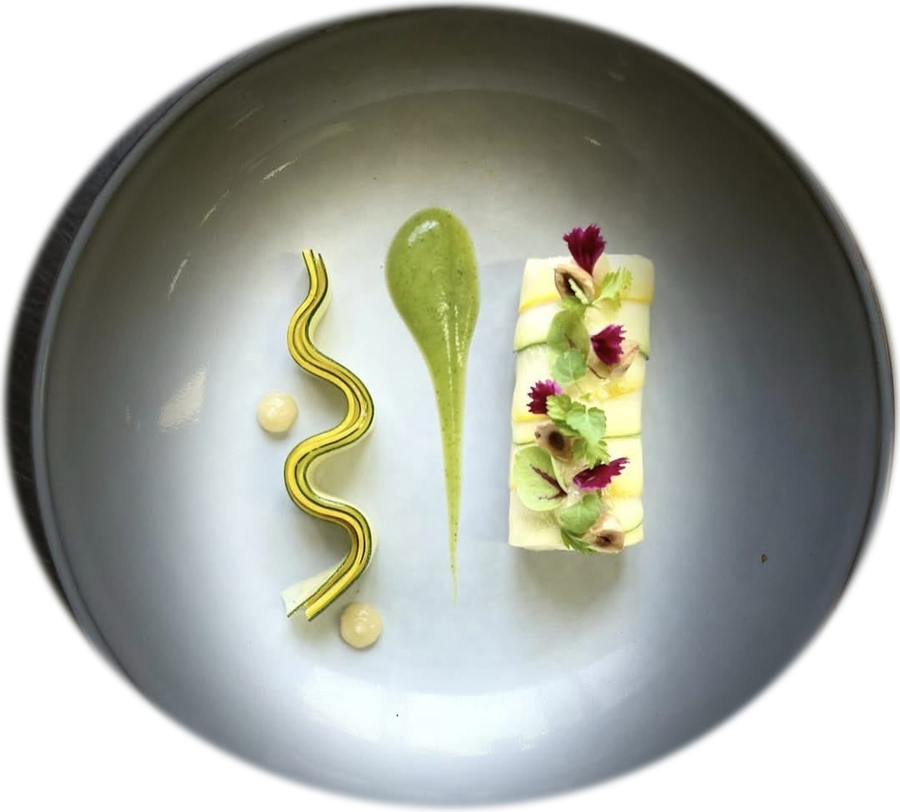
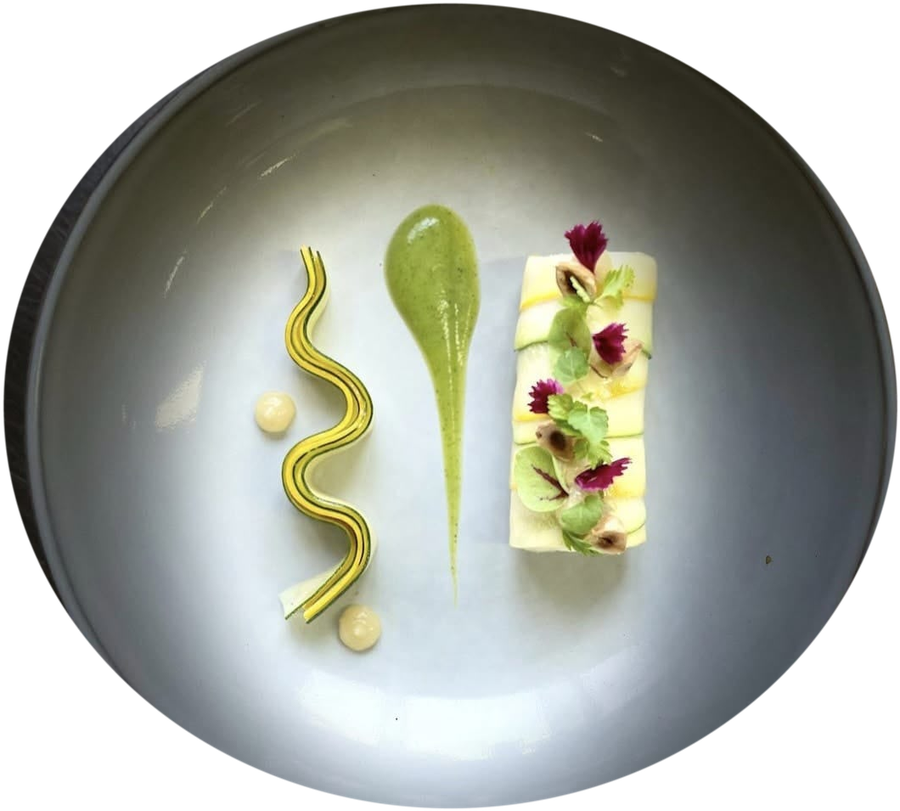
Corriger le détourage des assiettes (bord flou et halo)
Le contour précédent était bien trop flouté (façon vignette),
laissant un halo gris qui ne se fondait pas proprement dans le fond
crème du site. Le nouveau détourage garde une anti-crénelure fine
(supersampling 8x) sans flou supplémentaire, avec un seuillage qui
resserre la transition alpha. Ombre portée également allégée pour
ne pas recréer de flou autour de l'assiette.

Claude-Session: https://claude.ai/code/session_018Rk5MCus49SQoaiAyhNowz

diff --git a/css/style.css b/css/style.css
@@ -530,7 +530,7 @@ blockquote.tagline {
   width: 100%;
   height: 100%;
   object-fit: contain;
-  filter: drop-shadow(0 18px 28px rgba(27, 26, 24, 0.16));
+  filter: drop-shadow(0 10px 14px rgba(27, 26, 24, 0.12));
   opacity: 0;
   animation: dishFade 16s infinite;
 }
